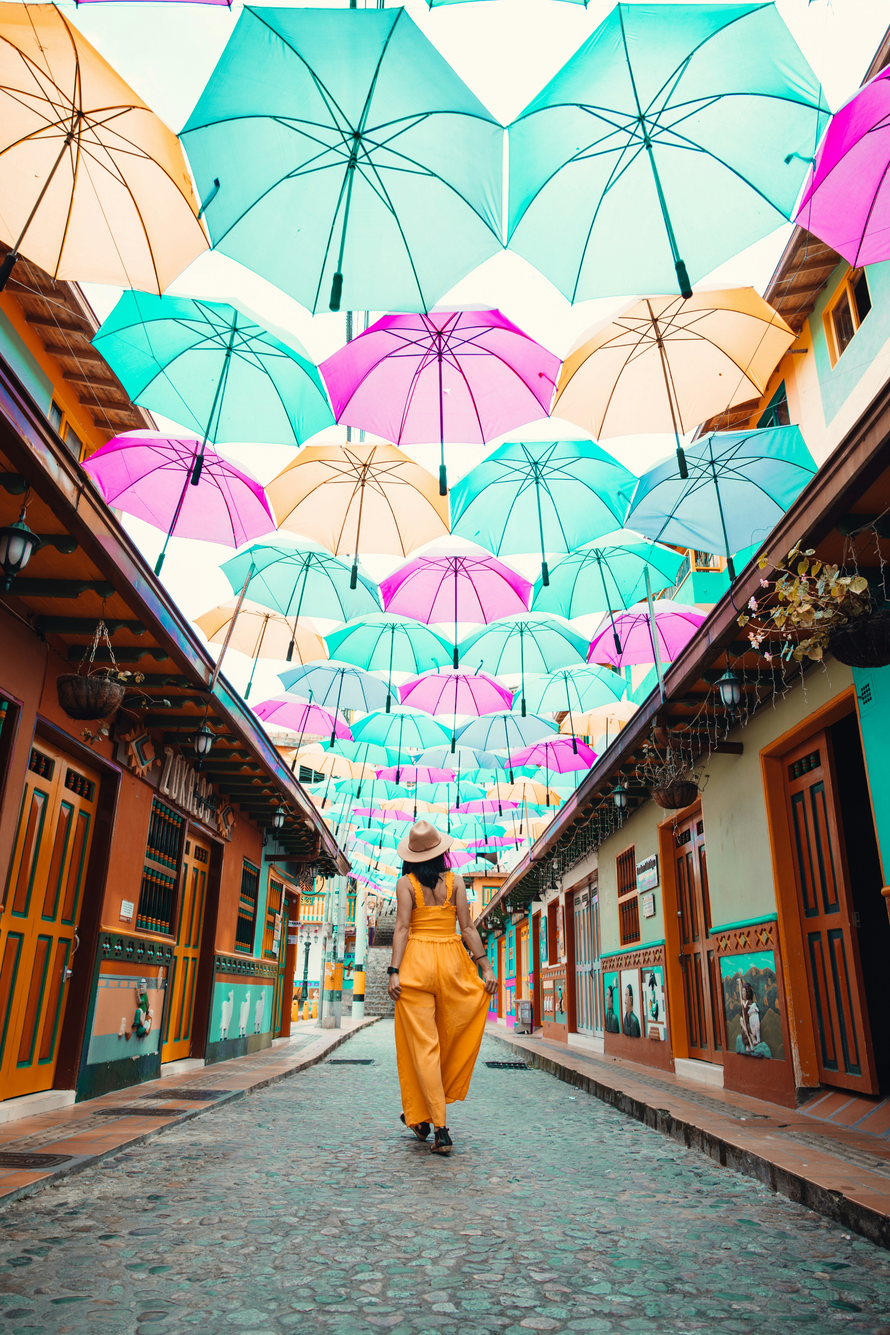
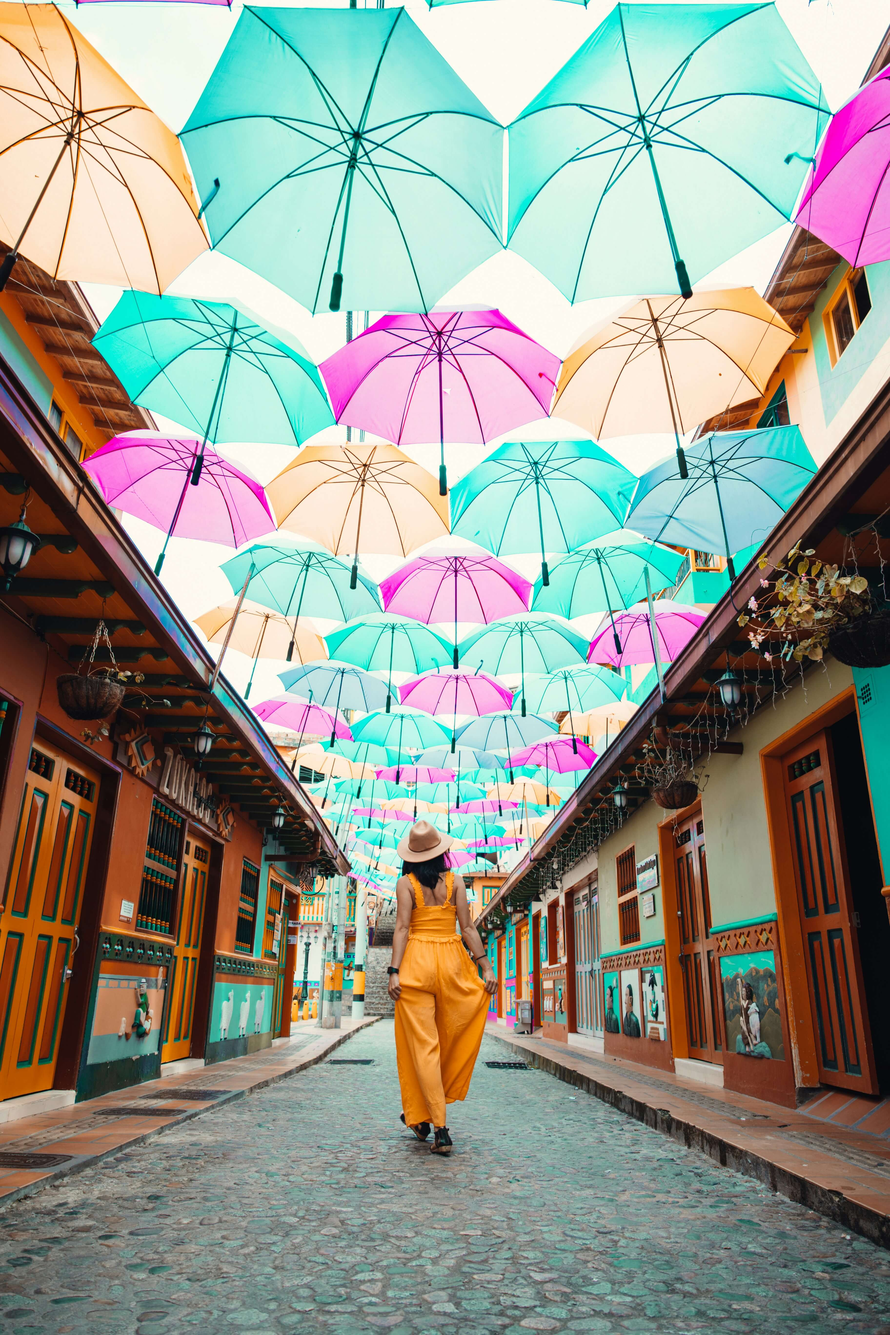
Ajuste media queries, reducc resoluc fotos

Changed region(s): [[0.4688, 0.25, 0.5, 0.2812]]

diff --git a/blocks/mediaQueries.css b/blocks/mediaQueries.css
@@ -1,0 +1,94 @@
+@media screen and (max-width: 928px) and (min-width: 768px) {
+  .header,
+  .profile,
+  .elements {
+    max-width: 581px;
+    max-height: 100%;
+  }
+
+  .profile__info {
+    padding-left: 20px;
+    padding-right: 50px;
+  }
+
+  .elements__picture-nameSection {
+    height: 50px;
+  }
+
+  .elements__picture-name {
+    font-size: 16px;
+    line-height: 22px;
+  }
+}
+
+@media screen and (max-width: 768px) {
+  .header {
+    max-width: 100%;
+    padding-left: 27px;
+  }
+
+  .profile {
+    max-width: 282px;
+    flex-wrap: wrap;
+    justify-content: center;
+  }
+
+  .profile__photo {
+    width: 120px;
+    height: 120px;
+    align-self: center;
+    margin-bottom: 14px;
+  }
+
+  .profile__info {
+    padding-left: 0px;
+    padding-right: 0px;
+    text-align: center;
+  }
+
+  .profile__info-text {
+    padding-right: 12px;
+  }
+
+  .profile__info-name {
+    font-size: 22px;
+    line-height: 30px;
+    font-weight: 400;
+    padding-bottom: 14px;
+    padding-right: 0px;
+  }
+
+  .profile__info-aboutMe {
+    font-size: 14px;
+    line-height: 18px;
+    padding-right: 0px;
+  }
+
+  .profile__info-editName {
+    align-self: normal;
+  }
+
+  .profile__addProfile {
+    margin-top: 36px;
+    width: 282px;
+    height: 50px;
+  }
+
+  .elements {
+    max-width: 282px;
+    max-height: 100%;
+  }
+
+  .elements__picture {
+    margin: 0 auto 21px;
+  }
+
+  .elements__picture-nameSection {
+    height: 50px;
+  }
+
+  .elements__picture-name {
+    font-size: 16px;
+    line-height: 22px;
+  }
+}

diff --git a/pages/index.css b/pages/index.css
@@ -4,9 +4,10 @@
 @import url("../blocks/header.css");
 @import url("../blocks/profile.css");
 @import url("../blocks/elements.css");
+@import url("../blocks/mediaQueries.css");
 @import url("../blocks/footer.css");
+
 /*
 @import url("../blocks/gallery_grid.css");
 @import url("../blocks/places.css");
-@import url("../blocks/cover.css");
-@import url("../blocks/mediaQueries.css"); */
+@import url("../blocks/cover.css");*/

diff --git a/index.html b/index.html
@@ -31,7 +31,7 @@
           <div class="profile__info">
             <div class="profile__info-text">
               <h2 class="profile__info-name">Jacques Cousteau</h2>
-              <p class="profile__info-aboutMe">Explorador</p>
+              <p class="profile__info-aboutMe">Explorer</p>
             </div>
 
             <button class="profile__info-editName">

diff --git a/blocks/profile.css b/blocks/profile.css
@@ -28,7 +28,7 @@
   font-size: 42px;
   line-height: 56px;
   font-weight: 500px;
-  padding-right: 17px;
+  padding-right: 16px;
 }
 
 .profile__info-aboutMe {
